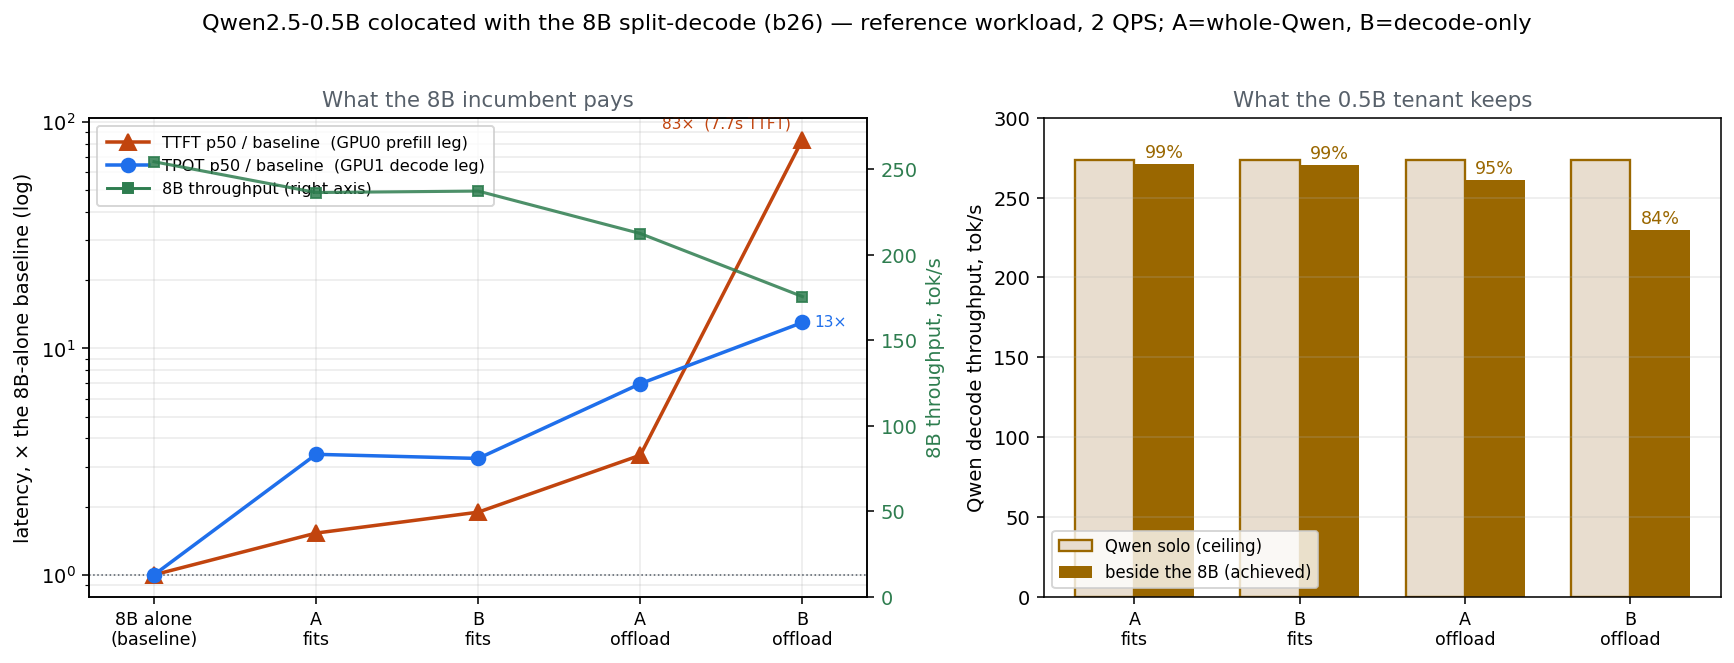
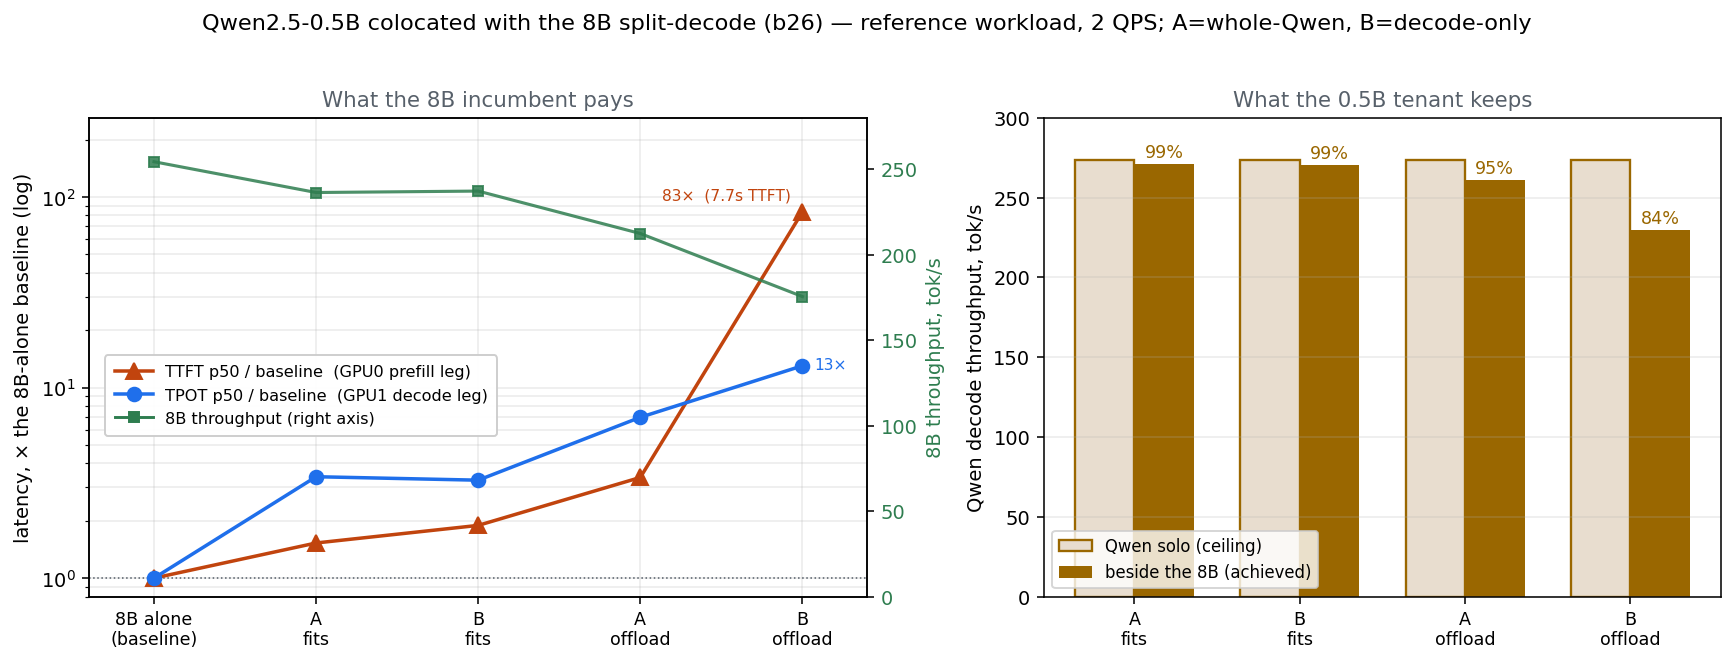
update

diff --git a/scripts/plots/plot_inf_coloc_view.py b/scripts/plots/plot_inf_coloc_view.py
@@ -1,10 +1,14 @@
 #!/usr/bin/env python3
-"""System-components view of the decode+decode colocation (scenario B, the measured one):
-the 8B split stack + a Qwen2.5-0.5B decode-only tenant across GPU0 / host DRAM / GPU1,
-with KV flows and the shared host copy path that governs the bottleneck.
+"""System-components view of the decode+decode colocation, one figure per scenario.
 
-Companion to plot_colocation_view.py in report_colocation_ft.md -- same three physical
-locations, same house style. No measured data; run from the repo root.
+Physical columns GPU0 | host DRAM | GPU1. The 8B split stack (prefill GPU0 -> store :8300
+-> decode GPU1) is identical in every scenario; only the Qwen tenant's placement and its
+KV flows change:
+  A  whole Qwen on GPU1 (prefill+decode), spilling to its own DRAM store on eviction.
+  B  Qwen decode-only on GPU1; a temporary GPU0 prefill populates the store, then dies.
+  C  Qwen split like the 8B: prefill GPU0 + decode GPU1 + own proxy.
+The middle callout is the point of every panel: the two stores are separate processes but
+drive the SAME host copy engine. No measured data. Run from the repo root.
 """
 
 from pathlib import Path
@@ -18,71 +22,95 @@ REPO = Path(__file__).resolve().parent.parent.parent
 FIGS = REPO / "figures"
 BLUE, BLUEF = "#1f6feb", "#dbe7fb"      # 8B prefill
 GRN, GRNF = "#2e7d4f", "#ddeee4"        # 8B decode
-LMC, LMCF = "#c1440e", "#f7e3d8"        # LMCache stores (host DRAM)
+LMC, LMCF = "#c1440e", "#f7e3d8"        # 8B store
 QWN, QWNF = "#8250df", "#ece5fb"        # Qwen processes
 GREY = "#57606a"
 
+TITLES = {
+    "A": "Scenario A — whole Qwen on GPU1 (prefill + decode here)",
+    "B": "Scenario B — Qwen decode-only (prefill from an invisible GPU)",
+    "C": "Scenario C — split Qwen (prefill GPU0 + decode GPU1)  [memory-deferred]",
+}
 
-def main():
+
+def box(ax, x, y, w, h, txt, fc, ec, fs=8.4, ls="-"):
+    ax.add_patch(Rectangle((x, y), w, h, facecolor=fc, edgecolor=ec, lw=1.5, zorder=3,
+                           linestyle=ls))
+    ax.text(x + w / 2, y + h / 2, txt, ha="center", va="center", fontsize=fs, zorder=4)
+
+
+def arrow(ax, xy0, xy1, color, txt="", off=(0, 1.6), fs=7.4, lw=1.6, style="-|>"):
+    ax.add_patch(FancyArrowPatch(xy0, xy1, arrowstyle=style, mutation_scale=12,
+                 color=color, lw=lw, zorder=5))
+    if txt:
+        mx, my = (xy0[0] + xy1[0]) / 2 + off[0], (xy0[1] + xy1[1]) / 2 + off[1]
+        ax.text(mx, my, txt, ha="center", fontsize=fs, color=color)
+
+
+def draw(scenario):
     fig, ax = plt.subplots(figsize=(13.5, 7.2))
     ax.set_xlim(0, 132); ax.set_ylim(0, 72); ax.axis("off")
-    ax.text(66, 69.5, "Scenario B: 8B split stack + Qwen decode-only tenant "
-            "(prefill from an invisible GPU)", fontsize=12.5, ha="center",
-            fontweight="bold", color=GREY)
+    ax.text(66, 69.5, TITLES[scenario], fontsize=12.5, ha="center", fontweight="bold",
+            color=GREY)
 
-    # three physical location bands
     for x, w, name in ((2, 34, "GPU0"), (48, 36, "host DRAM (60 GiB)"), (96, 34, "GPU1")):
         ax.add_patch(Rectangle((x, 6), w, 56, fill=False, ec=GREY, lw=1.3, ls=(0, (6, 4))))
         ax.text(x + w / 2, 63.4, name, ha="center", fontsize=10, color=GREY)
 
-    def box(x, y, w, h, txt, fc, ec, fs=8.6, ls="-"):
-        ax.add_patch(Rectangle((x, y), w, h, facecolor=fc, edgecolor=ec, lw=1.5,
-                               zorder=3, linestyle=ls))
-        ax.text(x + w / 2, y + h / 2, txt, ha="center", va="center", fontsize=fs, zorder=4)
+    # ---- 8B split stack (identical every scenario) ----
+    box(ax, 5, 34, 28, 20, "8B prefill\n(24.8 GiB, GPU0)\nprefix cache + LMCache", BLUEF, BLUE)
+    box(ax, 51, 34, 30, 18, "8B LMCache store\n(<=24 GiB) + L1 2x6", LMCF, LMC)
+    box(ax, 99, 34, 28, 20, "8B decode\n(27.0 GiB, b26)\nrunning KV only", GRNF, GRN)
+    arrow(ax, (33, 45), (51, 44), BLUE, "store KV", off=(0, 1.8))
+    arrow(ax, (81, 41), (99, 43), GRN, "retrieve", off=(0, 1.8))
 
-    # GPU0: 8B prefill (live) + Qwen temp prefill (populate, then killed)
-    box(5, 34, 28, 20, "8B prefill\n(24.8 GiB, GPU0)\nprefix cache + LMCache", BLUEF, BLUE)
-    box(5, 12, 28, 14, "Qwen prefill (2.9 GiB)\nTEMP: populates the store\nonce, then killed",
-        "white", QWN, 8.0, ls="--")
+    # ---- Qwen store (host DRAM) -- present in every scenario ----
+    box(ax, 51, 13, 30, 13, "Qwen LMCache store\n(0.6 / 3.4 GiB) + L1", QWNF, QWN)
 
-    # host DRAM: two independent LMCache stores
-    box(51, 34, 30, 18, "8B LMCache store\n(<=24 GiB) + L1 2x6", LMCF, LMC)
-    box(51, 13, 30, 13, "Qwen LMCache store\n(0.6 / 3.4 GiB) + L1", QWNF, QWN)
-    ax.text(66, 8.6, "separate servers (:8300 / :8301) --\nbut one host CPU/DRAM copy engine",
-            ha="center", fontsize=7.6, color=LMC, style="italic")
+    # ---- Qwen engines + flows, per scenario ----
+    if scenario == "A":
+        box(ax, 99, 12, 28, 14, "Qwen engine (GPU1)\nprefill + decode\n(2.9 GiB)", QWNF, QWN, 8.0)
+        # single engine spills to / reloads from its own store on eviction
+        ax.add_patch(FancyArrowPatch((99, 19), (81, 19), arrowstyle="<|-|>",
+                     mutation_scale=12, color=QWN, lw=1.8, zorder=5))
+        ax.text(90, 21.4, "spill / reload\non eviction", ha="center", fontsize=7.2, color=QWN)
+        client_note = "8B client → proxy :8000\nQwen client → :8201 (direct)"
+    elif scenario == "B":
+        box(ax, 5, 12, 28, 14, "Qwen prefill (2.9 GiB)\nTEMP: populates the store\nonce, then killed",
+            "white", QWN, 8.0, ls="--")
+        box(ax, 99, 12, 28, 14, "Qwen decode-only\n(2.9 GiB)\nretrieve KV + decode", QWNF, QWN)
+        arrow(ax, (33, 18), (51, 19), QWN, "populate", off=(0, -2.2))
+        arrow(ax, (81, 19), (99, 18), QWN, "KV in (from DRAM)", off=(0, -2.2))
+        client_note = "8B client → proxy :8000\nQwen client → :8201 (direct)"
+    else:  # C
+        box(ax, 5, 12, 28, 14, "Qwen prefill\n(2.9 GiB, GPU0)\nprefix cache + LMCache", QWNF, QWN, 8.0)
+        box(ax, 99, 12, 28, 14, "Qwen decode\n(2.9 GiB, GPU1)\nrunning KV only", QWNF, QWN)
+        arrow(ax, (33, 18), (51, 19), QWN, "store KV", off=(0, -2.2))
+        arrow(ax, (81, 19), (99, 18), QWN, "retrieve", off=(0, -2.2))
+        # its own forwarding proxy
+        box(ax, 40, 1.5, 30, 6, "Qwen proxy :8001 (forwards token #1)", "white", QWN, 7.6)
+        client_note = "8B client → proxy :8000\nQwen client → proxy :8001"
 
-    # GPU1: 8B decode (b26) + Qwen decode-only
-    box(99, 34, 28, 20, "8B decode\n(27.0 GiB, b26)\nrunning KV only", GRNF, GRN)
-    box(99, 12, 28, 14, "Qwen decode-only\n(2.9 GiB)\nretrieve KV + decode", QWNF, QWN)
-
-    def arrow(xy0, xy1, color, txt="", rad=0.0, off=(0, 1.6), fs=7.4, lw=1.6):
-        ax.add_patch(FancyArrowPatch(xy0, xy1, arrowstyle="-|>", mutation_scale=13,
-                     color=color, lw=lw, connectionstyle=f"arc3,rad={rad}", zorder=5))
-        if txt:
-            mx, my = (xy0[0] + xy1[0]) / 2 + off[0], (xy0[1] + xy1[1]) / 2 + off[1]
-            ax.text(mx, my, txt, ha="center", fontsize=fs, color=color)
-
-    # 8B: prefill -> store (write), store -> decode (retrieve, into first-ITL)
-    arrow((33, 45), (51, 44), BLUE, "store KV", off=(0, 1.8))
-    arrow((81, 41), (99, 43), GRN, "retrieve", off=(0, 1.8))
-    # Qwen: temp prefill -> store (populate), store -> decode (the "simulated prefill")
-    arrow((33, 18), (51, 19), QWN, "populate", off=(0, -2.2))
-    arrow((81, 19), (99, 18), QWN, "KV in (from DRAM)", off=(0, -2.2))
-
-    # the shared-resource annotation
+    # ---- the shared-resource callout (the point of the figure) ----
     ax.text(66, 55.5, "Both stores drive the SAME host copy path (CPU memcpy + DRAM BW).\n"
-            "It -- not PCIe, not GPU compute -- is the shared resource the two decodes contend for.",
+            "It -- not PCIe, not GPU compute -- is the shared resource the two stacks contend for.",
             ha="center", fontsize=8.0, color=GREY,
             bbox=dict(boxstyle="round,pad=0.4", fc="#f6f8fa", ec=GREY, lw=0.8))
-
-    # clients
-    ax.text(113, 58.5, "8B client -> proxy :8000\nQwen client -> :8201 (direct)",
-            ha="center", fontsize=7.6, color=GREY)
+    ax.text(66, 9.4, "separate servers (:8300 / :8301), separate L1 pools", ha="center",
+            fontsize=7.4, color=LMC, style="italic")
+    ax.text(113, 30.2, client_note, ha="center", fontsize=7.4, color=GREY)
 
     fig.tight_layout()
     FIGS.mkdir(exist_ok=True)
-    fig.savefig(FIGS / "inf_coloc_view.png", dpi=140, bbox_inches="tight")
-    print("wrote figures/inf_coloc_view.png")
+    out = FIGS / f"inf_coloc_view_{scenario}.png"
+    fig.savefig(out, dpi=140, bbox_inches="tight")
+    plt.close(fig)
+    print(f"wrote {out.relative_to(REPO)}")
+
+
+def main():
+    for s in ("A", "B", "C"):
+        draw(s)
 
 
 if __name__ == "__main__":

diff --git a/scripts/plots/plot_inf_inf_coloc.py b/scripts/plots/plot_inf_inf_coloc.py
@@ -63,6 +63,7 @@ def main():
             label="TPOT p50 / baseline  (GPU1 decode leg)")
     ax.axhline(1.0, color=GRY, lw=0.8, ls=":")
     ax.set_yscale("log")
+    ax.set_ylim(0.8, 260)      # headroom above the 83x point for its annotation + legend
     ax.set_xticks(xpos, xticks, fontsize=9)
     ax.set_ylabel("latency, × the 8B-alone baseline (log)", fontsize=10)
     ax.set_title("What the 8B incumbent pays", fontsize=11, color=GRY)
@@ -81,8 +82,11 @@ def main():
     ax_t.set_ylabel("8B throughput, tok/s", fontsize=10, color=GRN)
     ax_t.tick_params(axis="y", labelcolor=GRN)
     ax.plot([], [], "-s", color=GRN, ms=5.5, label="8B throughput (right axis)")
-    ax.legend(fontsize=8.3, loc="upper left", handlelength=2.6, handletextpad=0.8,
-              borderpad=0.6)
+    # the green throughput line hugs the top and TTFT/TPOT rise on the right, so the
+    # clear band is mid-left; anchor the legend there.
+    ax.legend(fontsize=8.3, loc="center left", bbox_to_anchor=(0.01, 0.42),
+              handlelength=2.4, handletextpad=0.7, borderpad=0.6,
+              framealpha=0.95)
 
     # ---- right: Qwen tenant -- achieved vs its solo ceiling ----
     ceil = {"fits": qtp(cells["solo_fits"]), "offload": qtp(cells["solo_offload"])}

diff --git a/reports/report_colocation_inf.md b/reports/report_colocation_inf.md
@@ -22,19 +22,33 @@ Two questions:
 
 ## 2. The view
 
-![system view of scenario B](../figures/inf_coloc_view.png)
-
 The successor to the split study's Act II layout, now with a second tenant. The 8B split
-is unchanged — prefill on GPU0 writes each session's KV to its own LMCache DRAM store
-(:8300); decode on GPU1 retrieves it and runs. The Qwen tenant is dropped into the
-**margin GPU1 leaves free** (≥1.9 GiB beside the 27 GiB decode), with its **own**
-store (:8301) so the two models share no cache state. The figure's single most
-important object is the callout in the middle: the two stores are separate *processes*,
-but they drive the **same host copy engine** (CPU memcpy + host DRAM bandwidth), and
-that shared path — not PCIe, not GPU compute — is where the incumbent and the tenant
-actually collide (§7). The dashed Qwen‑prefill box on GPU0 is scenario B's "invisible
-GPU": it exists only long enough to populate the store, then is killed, so during
-measurement the tenant never prefills — it retrieves KV from DRAM and decodes.
+is unchanged in every scenario — prefill on GPU0 writes each session's KV to its own
+LMCache DRAM store (:8300); decode on GPU1 retrieves it and runs. The Qwen tenant is
+dropped into the **margin GPU1 leaves free** (≥1.9 GiB beside the 27 GiB decode), with
+its **own** store (:8301) so the two models share no cache state. The single most
+important object in each panel is the callout in the middle: the two stores are separate
+*processes*, but they drive the **same host copy engine** (CPU memcpy + host DRAM
+bandwidth), and that shared path — not PCIe, not GPU compute — is where the incumbent and
+the tenant actually collide (§7). What changes between scenarios is only *where the
+tenant's prefill runs and how its KV reaches GPU1*:
+
+**A — whole Qwen on GPU1.** One Qwen engine does prefill *and* decode on GPU1; on
+oversubscription it spills to / reloads from its own store. GPU0 carries only the 8B.
+
+![scenario A view](../figures/inf_coloc_view_A.png)
+
+**B — Qwen decode-only ("prefill from an invisible GPU").** The dashed GPU0 box is a
+*temporary* Qwen prefill that populates the store once and is then killed; during
+measurement the GPU1 engine only retrieves KV from DRAM and decodes — it never prefills.
+
+![scenario B view](../figures/inf_coloc_view_B.png)
+
+**C — split Qwen (memory-deferred).** A second full split beside the 8B's: Qwen prefill
+on GPU0, decode on GPU1, its own forwarding proxy (:8001). Two complete stacks — the
+configuration that trips the pinned-memory guard (§7).
+
+![scenario C view](../figures/inf_coloc_view_C.png)
 
 ## 3. The four placements
 
